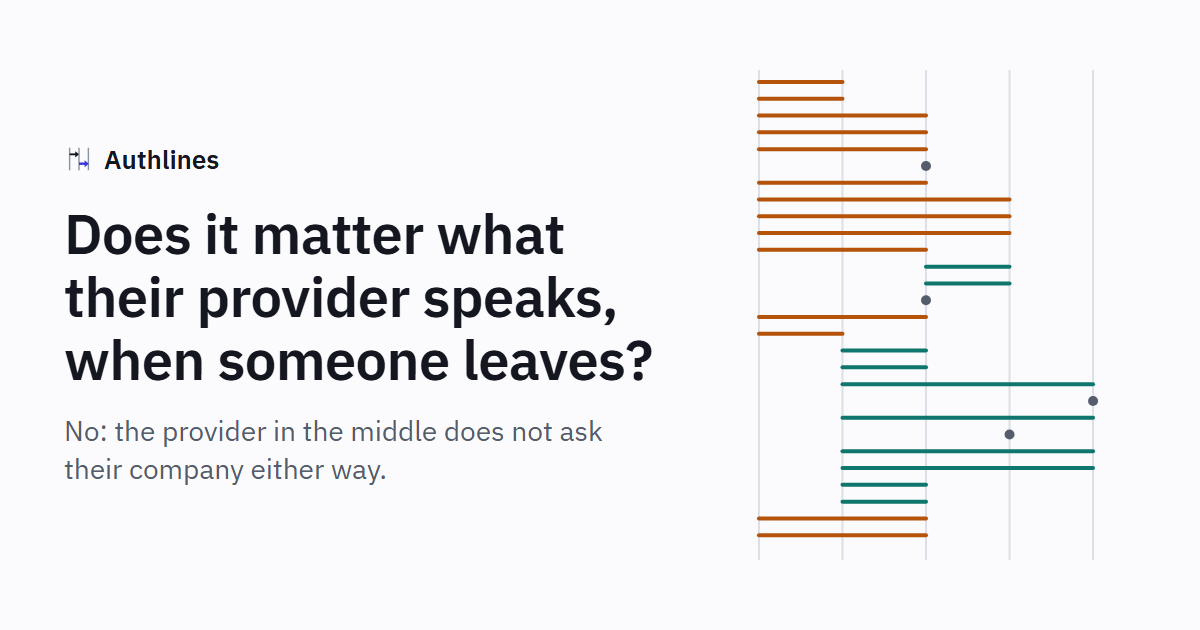
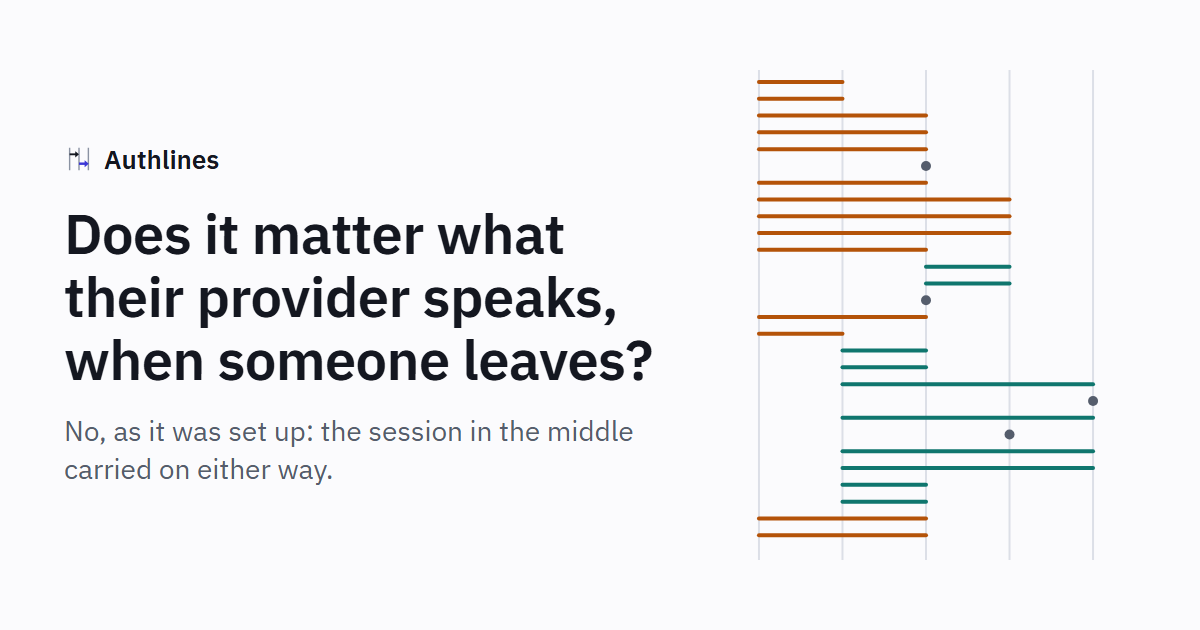
fix: what a claims audit found in the words on someone leaving
The old token lasts its own few minutes, not as long as the session, and nothing in the run waited
for anything to end, so the words say what lasts what. A refresh restarts the 30 minutes and not
the 10 hours. Nothing was set up for their company to tell the provider in the middle, so that is
what the words say, and "longer than people expect" is gone. The recorder now asks a browser with
no session of both customers, not only the one on SAML, because the step says it of either. The
switch waits for a customer's own provider, which takes the advanced screen back under its budget.

Changed region(s): [[0.0617, 0.6635, 0.5242, 0.7841]]

diff --git a/scripts/record/companies.ts b/scripts/record/companies.ts
@@ -344,8 +344,8 @@ export async function questionsWhenSomeoneLeaves(browser: Browser, admin: Admin)
 	const realm = `/realms/${COMPANIES_REALM}`;
 	await admin.call('POST', `${realm}/clients`, client(LEAVING_CLIENT, { publicClient: true }));
 	await forgetCustomersPeople(admin);
-	const { email } = PERSON_AT.acme;
-	const logIn = async () => {
+	const logIn = async (customer: Customer) => {
+		const { email } = PERSON_AT[customer];
 		const context = await browser.newContext();
 		const page = await context.newPage();
 		const query = new URLSearchParams({
@@ -357,6 +357,7 @@ export async function questionsWhenSomeoneLeaves(browser: Browser, admin: Admin)
 		await page.fill('#username', email);
 		await page.click('#kc-login');
 		await page.locator('#password').waitFor({ timeout: 15_000 });
+		// Their company's page may not know the email: with SAML, nothing passed it on.
 		await page.fill('#username', email);
 		await page.fill('#password', PASSWORD);
 		await page.click('#kc-login');
@@ -371,7 +372,7 @@ export async function questionsWhenSomeoneLeaves(browser: Browser, admin: Admin)
 		const loggedIn = at.href.startsWith(REDIRECT_URI);
 		return {
 			loggedIn,
-			atTheirCompany: at.pathname.startsWith(`/realms/${SAML_CUSTOMER}/`),
+			atTheirCompany: at.pathname.startsWith(`/realms/${customer}/`),
 			says: loggedIn
 				? null
 				: (body
@@ -380,23 +381,32 @@ export async function questionsWhenSomeoneLeaves(browser: Browser, admin: Admin)
 						?.trim() ?? null)
 		};
 	};
-	try {
-		const before = await logIn();
-		await turnOff(admin, SAML_CUSTOMER);
-		const withNoSession = await logIn();
+	// The same for a customer on SAML and one on OpenID Connect, so the screen can say it of either.
+	const ask = async (customer: Customer) => {
+		const before = await logIn(customer);
+		await turnOff(admin, customer);
+		const withNoSession = await logIn(customer);
 		const [kept] = await admin.call<{ enabled: boolean }[]>(
 			'GET',
-			`${realm}/users?email=${encodeURIComponent(email)}&exact=true`
+			`${realm}/users?email=${encodeURIComponent(PERSON_AT[customer].email)}&exact=true`
 		);
+		return {
+			before: { loggedIn: before.loggedIn },
+			withNoSession,
+			keptHere: { enabled: kept?.enabled ?? null }
+		};
+	};
+	try {
+		const acme = await ask(SAML_CUSTOMER);
+		const globex = await ask(OIDC_CUSTOMER);
 		const lengths = await admin.call<{
 			ssoSessionIdleTimeout: number;
 			ssoSessionMaxLifespan: number;
 		}>('GET', realm);
 		return {
 			whenSomeoneLeaves: {
-				before: { loggedIn: before.loggedIn },
-				withNoSession,
-				keptHere: { enabled: kept?.enabled ?? null },
+				acme,
+				globex,
 				session: {
 					idleMinutes: lengths.ssoSessionIdleTimeout / 60,
 					maxHours: lengths.ssoSessionMaxLifespan / 3600
@@ -404,7 +414,7 @@ export async function questionsWhenSomeoneLeaves(browser: Browser, admin: Admin)
 			}
 		};
 	} finally {
-		await turnOff(admin, SAML_CUSTOMER, false);
+		for (const customer of CUSTOMERS) await turnOff(admin, customer, false);
 		const [question] = await admin.call<{ id: string }[]>(
 			'GET',
 			`${realm}/clients?clientId=${LEAVING_CLIENT}`

diff --git a/src/lib/flow/authorization-code.ts b/src/lib/flow/authorization-code.ts
@@ -2254,7 +2254,7 @@ export const authorizationCode: DiagramDef = withTheOldWayInTheFlow({
 			plain: 'Their company turns their account off',
 			label: 'Account disabled',
 			concept:
-				"They have left, and their company's admins turn their account off at their own provider. On the server recorded, nothing told the identity provider, and nothing told the app."
+				"They have left, and their company's admins turn their account off at their own provider. On the server recorded, nothing was set up for their company to tell the identity provider, and nothing told it, or the app."
 		},
 		{
 			id: 'left-api-request',
@@ -2276,7 +2276,7 @@ export const authorizationCode: DiagramDef = withTheOldWayInTheFlow({
 			plain: 'It still answers',
 			label: '200 with the resource',
 			concept:
-				'Nothing in the token changed, and it has not run out, so an API that checks the token alone answers as before.',
+				'Nothing in the token changed, and it has not run out, so the API answered as before.',
 			fields: [{ name: 'resource', place: 'body', note: 'What the API answers' }]
 		},
 		{
@@ -2302,7 +2302,7 @@ export const authorizationCode: DiagramDef = withTheOldWayInTheFlow({
 			plain: 'New tokens, without asking their company',
 			label: '200, new tokens',
 			concept:
-				'The identity provider does not ask their company for a refresh. The session it keeps for them is still good, so it gives new tokens.',
+				'The identity provider did not ask their company for a refresh. The session it keeps for them was still good, and so was the account it kept for them, and it gave new tokens.',
 			fields: [
 				{ name: 'access_token', place: 'body', artifact: 'access-token' },
 				{ name: 'token_type=Bearer', place: 'body' },
@@ -2349,7 +2349,7 @@ export const authorizationCode: DiagramDef = withTheOldWayInTheFlow({
 				title: 'When does it stop?',
 				text: [
 					{
-						text: 'When the session in the middle ends, or its admins end it. The server recorded, as it comes, ends a session after 30 minutes unused, or 10 hours in all, and its guide says a refresh counts as using it, so an app that keeps refreshing keeps it going. A browser with no session went to their company, whose page said "Account is disabled, contact your administrator.", and the identity provider never heard back. The account it kept for them stayed enabled.'
+						text: 'The access token it already has works until it runs out. A refresh and a login again work while the session in the middle lasts: the server recorded, as it comes, ends a session after 30 minutes unused, or 10 hours in all, and its guide says a refresh counts as using it, which restarts the 30 minutes and not the 10 hours. Its admins can end it sooner, which was not tried. With either kind of customer, a browser with no session went to their company, whose page said "Account is disabled, contact your administrator.", and the identity provider never heard back. The account it kept for them stayed enabled.'
 					}
 				]
 			},

diff --git a/src/lib/map/tracks.ts b/src/lib/map/tracks.ts
@@ -423,9 +423,10 @@ export const mapTracks: readonly MapTrack[] = [
 						'leaver'
 					],
 					answer:
-						'Their company turns their account off, and nothing tells your provider. On the server recorded, the old token still worked, a refresh still gave new ones, and the same browser logged in again unasked, for as long as the session in the middle lasted.',
+						'Their company turns their account off. On the server recorded, nothing told your provider: the old token still worked, a refresh gave new ones, and the same browser logged in again unasked. A refresh or a login works while the session in the middle lasts.',
 					title: "What happens when someone leaves the customer's company?",
-					summary: 'Longer than people expect: until the session in the middle ends.',
+					summary:
+						'The token, a refresh and a login still work, while the session in the middle lasts.',
 					mode: 'advanced',
 					preset: 'companies-leaves',
 					step: 'code-again'
@@ -713,9 +714,9 @@ export const offTheMap: readonly MapNode[] = [
 		id: 'someone-leaves-oidc',
 		alsoAskedAs: ['leaves openid connect', 'offboarding openid connect'],
 		answer:
-			'No. With a customer on OpenID Connect too, the old token, a refresh and the same browser logging in again all still worked after their company turned them off, because the provider in the middle did not ask their company.',
+			'No, as it was set up. With a customer on OpenID Connect too, the old token, a refresh and the same browser logging in again all still worked after their company turned them off, and the session in the middle stayed the same one throughout.',
 		title: 'Does it matter what their provider speaks, when someone leaves?',
-		summary: 'No: the provider in the middle does not ask their company either way.',
+		summary: 'No, as it was set up: the session in the middle carried on either way.',
 		mode: 'advanced',
 		preset: 'companies-oidc-leaves',
 		step: 'code-again'

diff --git a/src/lib/flow/settings.ts b/src/lib/flow/settings.ts
@@ -455,7 +455,7 @@ export const settingDefs: { [K in SettingId]: DefFor<Settings[K]> } = {
 				is('registration', 'manual'),
 				is('appRuns', 'server')
 			),
-			because: 'It goes through another provider, and is only drawn in the plain case so far.',
+			because: 'Only with another provider, in the plain case so far.',
 			sayWhenBlocked: true
 		}
 	},
@@ -490,7 +490,7 @@ export const settingDefs: { [K in SettingId]: DefFor<Settings[K]> } = {
 		default: false,
 		onlyOn: 'authorization-code',
 		summary: 'Their company turns their account off, and what still works here.',
-		why: "When someone leaves, their company's admins turn their account off at their own provider. What a customer wants to know is how long that person can still get in through your app, and it is longer than people expect, because nothing tells the identity provider in the middle.",
+		why: "When someone leaves, their company's admins turn their account off at their own provider. What a customer wants to know is how long that person can still get in through your app. Unless something is set up to tell it, the identity provider in the middle is not told.",
 		sources: [
 			{
 				source: 'keycloak-timeouts',
@@ -499,8 +499,7 @@ export const settingDefs: { [K in SettingId]: DefFor<Settings[K]> } = {
 		],
 		requires: {
 			when: is('companies', true),
-			because: 'Only someone at a customer with a provider of their own leaves it.',
-			sayWhenBlocked: true
+			because: 'Only someone at a customer with a provider of their own leaves it.'
 		}
 	},
 	upstreamTokens: {

diff --git a/src/lib/recordings/recordings.test.ts b/src/lib/recordings/recordings.test.ts
@@ -546,11 +546,14 @@ describe('a customer with a provider of their own', () => {
 	});
 
 	it('says when it stops, as a real server answered', () => {
-		const { withNoSession, keptHere, session, before } = answers.whenSomeoneLeaves;
-		expect(before.loggedIn).toBe(true);
-		expect(withNoSession).toMatchObject({ loggedIn: false, atTheirCompany: true });
-		expect(withNoSession.says).toBe('Account is disabled, contact your administrator.');
-		expect(keptHere.enabled).toBe(true);
+		const { acme, globex, session } = answers.whenSomeoneLeaves;
+		for (const { withNoSession, keptHere, before } of [acme, globex]) {
+			expect(before.loggedIn).toBe(true);
+			expect(withNoSession).toMatchObject({ loggedIn: false, atTheirCompany: true });
+			expect(withNoSession.says).toBe('Account is disabled, contact your administrator.');
+			expect(keptHere.enabled).toBe(true);
+		}
+		const { withNoSession } = acme;
 		expect(session).toEqual({ idleMinutes: 30, maxHours: 10 });
 		const step = stepsOf(read('companies-leaves')).find(({ id }) => id === 'code-again');
 		const text = step?.pitfall?.text ?? '';

diff --git a/tests/e2e/sources.spec.ts b/tests/e2e/sources.spec.ts
@@ -27,7 +27,8 @@ const NEEDS: Partial<Record<string, string>> = {
 	attackerUses: 'attacker=1',
 	reuse: 'refresh=1',
 	ssoAsks: 'sso=1',
-	customerSpeaks: 'broker=1&companies=1'
+	customerSpeaks: 'broker=1&companies=1',
+	leaves: 'broker=1&companies=1'
 };
 const onOffer = (setting: string) => NEEDS[setting] ?? ALL_ON_OFFER;
 

diff --git a/docs/premise.md b/docs/premise.md
@@ -323,7 +323,7 @@ An order for later releases. **Proposed**, and expected to change.
 | User federation, built | Modifier, in advanced mode, that turns another provider off | Adds a lifeline, a search and a password check on the server, and no redirect. The setup gains an admin connecting the directory. Only in the plain case |
 | PAR | Modifier | Adds a back-channel push and changes the front channel |
 | Bearer, DPoP or mTLS | Exclusive | Cross-cutting, and DPoP adds a nonce retry |
-| Many customers, each with a provider, and SAML | **Decided, in scope** ([#118](https://github.com/vriesdemichael/authlines/issues/118)). Built as a modifier on another provider, then a choice of OpenID Connect or SAML, in advanced mode and the plain case | **Proposed, as built:** one shape, with our provider in the middle, because then the app still knows only one provider. It asks for the email, finds the company by its domain, and sends them on. With SAML, set up as SAML's POST binding, the request and an assertion in a signed response go through the browser in forms that post themselves, nothing is traded out of sight, and the assertion opens in the raw view. The token gains which customer. The setup gains the customer's admins, with what goes each way. Connecting the app to each customer directly would make it speak SAML itself, so the step that finds the company says that, and it is not drawn. Someone leaving is a modifier on that: their company turns the account off, and the old token, a refresh and the same browser logging in again all still work, for as long as the session in the middle lasts |
+| Many customers, each with a provider, and SAML | **Decided, in scope** ([#118](https://github.com/vriesdemichael/authlines/issues/118)). Built as a modifier on another provider, then a choice of OpenID Connect or SAML, in advanced mode and the plain case | **Proposed, as built:** one shape, with our provider in the middle, because then the app still knows only one provider. It asks for the email, finds the company by its domain, and sends them on. With SAML, set up as SAML's POST binding, the request and an assertion in a signed response go through the browser in forms that post themselves, nothing is traded out of sight, and the assertion opens in the raw view. The token gains which customer. The setup gains the customer's admins, with what goes each way. Connecting the app to each customer directly would make it speak SAML itself, so the step that finds the company says that, and it is not drawn. Someone leaving is a modifier on that: their company turns the account off, and on the server recorded the old token, a refresh and the same browser logging in again all still worked. The token lasts its own few minutes, and a refresh or a login works while the session in the middle lasts, because nothing was set up to tell it |
 | Token exchange | Later | `token-exchange-standard:v2`, internal-to-internal only |
 | Device, built | Base flow | A person carries a short code to another device, and the app keeps asking with a long one. How it ends is a choice in advanced mode: the user agrees, says no, or the codes run out, each recorded. A choice in simple mode too brings someone misusing it onto the diagram: sending the user a code of theirs, where how it ends decides what they get, or reading the code off the screen and getting there first |
 | Client credentials, built | Base flow | No browser and no user. The token request is all there is, and there is no refresh token |
